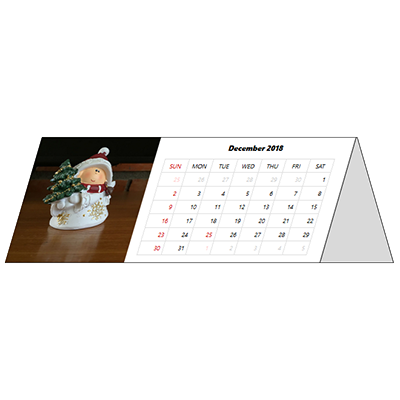
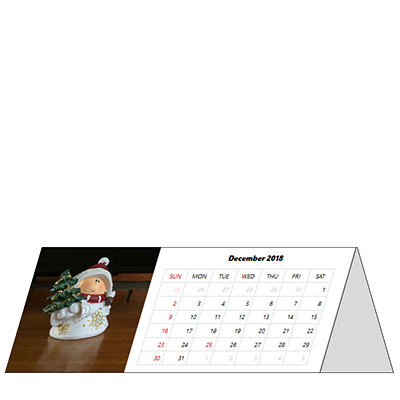
Removed calendar mockup from site header; Now using external random images.

diff --git a/desktopCal.js b/desktopCal.js
@@ -249,25 +249,6 @@ function updatePreview() {
 }
 
 /**
- * Updates site header with a live calendar
- */
-function updateSiteHeader() {
-
-	var images = [ 'xmas.jpg', 'rio.jpg', 'allure.jpg', 'charqueada.jpg', 'st-thomas.jpg', 'peach-flower.jpg' ];
-
-	var area = document.getElementById('cal-header'),
-		d = new Date(),
-		month = d.getMonth() + 1,
-		year = d.getFullYear(),
-		country = document.getElementById('country').value;
-
-	// display current month calendar on site header
-	area.querySelector('.cal-image').style = `background-image: url(img/${ images[ Math.floor( Math.random() * images.length ) ] })`;
-	area.querySelector('.cal-title').innerText = monthName[ lang ][ month ] + ' ' + year;
-	area.querySelector('.calendar').innerHTML = generateCalendar( month, year, lang, country );
-}
-
-/**
  * Changes calendar layout
  */
 function changeLayout() {
@@ -288,7 +269,10 @@ function changeLayout() {
  */
 function initialize() {
 
-	var browserLang = navigator.language.split('-');
+	var d = new Date(),
+		month = d.getMonth() + 1,
+		year = d.getFullYear(),
+		browserLang = navigator.language.split('-');
 
 	// try to use browser preferred language
 	if ( Object.keys( msg ).includes( browserLang[0] ) )
@@ -298,10 +282,6 @@ function initialize() {
 
 	// generate page HTML
 	document.getElementById('container').innerHTML = pageTemplate();
-
-	var d = new Date(),
-		month = d.getMonth() + 1,
-		year = d.getFullYear();
 
 	// suggest current month for calendar front...
 	document.getElementById('bottom-year').value = year;
@@ -318,8 +298,11 @@ function initialize() {
 	document.getElementById('top-year').value = year;
 	document.getElementById('top-month').selectedIndex = month;
 
-	// update site header and calendar preview
-	updateSiteHeader();
+	// pick two random images
+	document.getElementById('top-half').querySelector('.cal-image').style.backgroundImage = 'url(https://picsum.photos/800/600/?random)';
+	document.getElementById('bottom-half').querySelector('.cal-image').style.backgroundImage = 'url(https://source.unsplash.com/random/800x600)';
+
+	// update calendar preview
 	updatePreview();
 }
 

diff --git a/template.js b/template.js
@@ -2,15 +2,6 @@ function pageTemplate() {
 	return `
 		<div class="config">
 			<header>
-				<div id="cal-header" class="cal-header">
-					<div class="elements">
-						<div class="cal-image"></div>
-						<div class="cal-content">
-							<div class="cal-title"></div>
-							<div class="calendar"></div>
-						</div>
-					</div>
-				</div>
 				<h1>desktopCal.js</h1>
 			</header>
 
@@ -124,7 +115,7 @@ function pageTemplate() {
 			<div class="credits">
 				<strong>desktopCal.js</strong> Copyright &copy; 2018 Henrique Vianna<br>
 				Source code available on <a href="https://github.com/hvianna/desktopCal.js/">GitHub</a>. Licensed under the <a href="https://www.gnu.org/licenses/agpl.html">GNU AGPL-3.0 license</a>.<br>
-				Photos by <a href="https://github.com/Vortander">@vortander</a> and <a href="https://github.com/hvianna">@hvianna</a>. Icons by <a href="https://icons8.com/">icons8</a>.
+				Icons by <a href="https://icons8.com/">icons8</a>. Photos by <a href="https://source.unsplash.com/">Unsplash</a> and <a href="https://picsum.photos/">Lorem Picsum</a>.
 			</div>
 		</div> <!-- .preview -->
 	`;

diff --git a/styles.css b/styles.css
@@ -69,39 +69,6 @@ ul {
 	margin-bottom: 20px;
 }
 
-.cal-header {
-	background-image: url(img/desktopCal.png);
-	background-size: 660px 230px;
-	background-repeat: no-repeat;
-	font-size: 60%;
-	height: 230px;
-	margin: 0 auto;
-	overflow: hidden;
-	width: 660px;
-}
-.cal-header .cal-title {
-	margin: .75em 0;
-	font-weight: 900;
-}
-.cal-header .cal-content {
-	transform: skewX(-16.5deg) translateY(10px) translateX(35px);
-	width: 50%;
-}
-.cal-header .cal-image {
-	height: 90%;
-	transform: skewX(-16.5deg) translateY(10px) translateX(42px);
-	width: 30%;
-}
-.cal-header .calendar table {
-	width: 85%;
-	margin: 0 20px;
-}
-.cal-header .calendar table th,
-.cal-header .calendar table td {
-	height: 20px;
-	font-size: 100%;
-}
-
 .container {
 	display: flex;
 	justify-content: space-evenly;
@@ -110,6 +77,7 @@ ul {
 .config {
 	color: #555;
 	padding: 20px;
+	width: 700px;
 }
 
 .flex-blocks {

diff --git a/i18n.js b/i18n.js
@@ -192,8 +192,6 @@ function changeLang( obj ) {
 	for ( i = 0; i < elems.length; i++ )
 		elems[ i ].style.backgroundImage = pics[ i ];
 
-	// update site header and preview
-
-	updateSiteHeader();
+	// update preview
 	updatePreview();
 }
